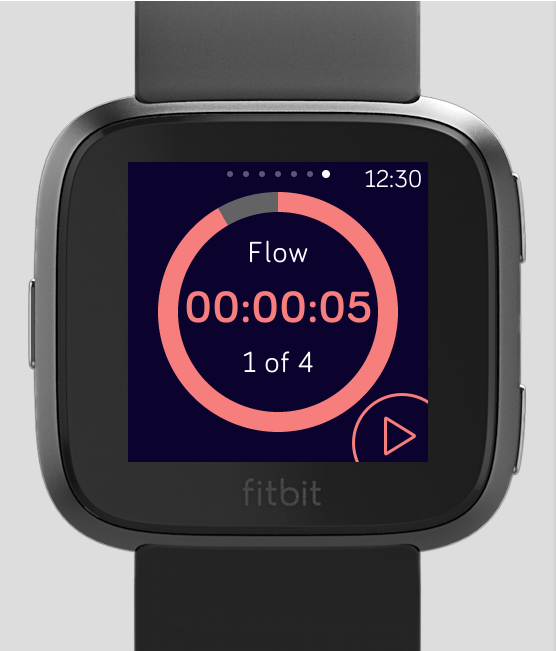
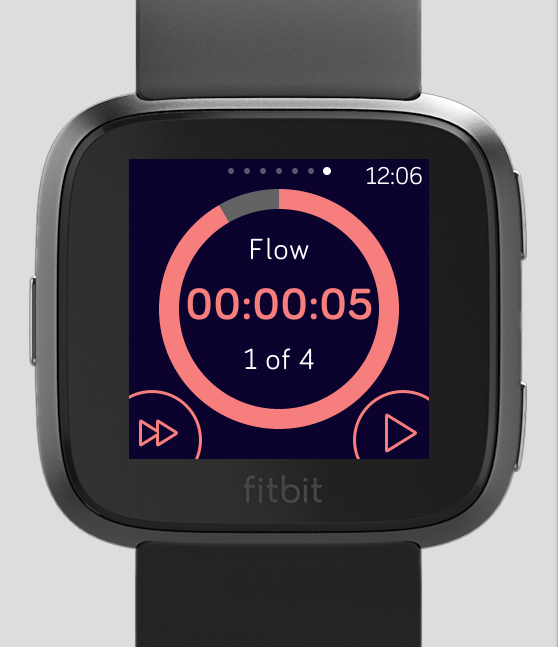
added support for the FitBit Ionic and updated screenshots/readme

diff --git a/resources/styles~348x250.css b/resources/styles~348x250.css
@@ -1,0 +1,41 @@
+.backgroundColor{
+  fill: "#000000"
+}
+
+.accentColor{
+  fill: "#FF9F1E"; 
+}
+
+.baseColor{
+  fill: "#FFFFFF";
+}
+
+.backgroundArcColor{
+  fill: "#636366";
+}
+
+#countdown{
+  font-family: "System-Bold"; 
+  font-size: "40"; 
+  text-anchor: "middle"; 
+  text-length: "12";
+}
+
+#sprintCounter{
+  font-family: "System-Regular";
+  font-size: "30";
+  text-anchor: "middle";
+}
+
+#currentIntervalText{
+  font-family: "System-Regular";
+  font-size: "30";
+  text-anchor: "middle";
+}
+
+#time{
+  font-family: "System-Regular";
+  font-size: "25";
+  text-anchor: "middle";
+}
+

diff --git a/readme.md b/readme.md
@@ -7,7 +7,6 @@ The user will complete a set of 4 sprints, with the first 3 followed by a short 
 ![](https://github.com/aes421/WorkFlow/blob/master/photos/Sample3.PNG?raw=true)
 # Upcoming
 This app is still currently in development.  Future enhancements include:
-* Compatibility with FitBit Ionic
 * Ability to exit app without losing progress
 * Make your own color combos
 * Save user settings for color
